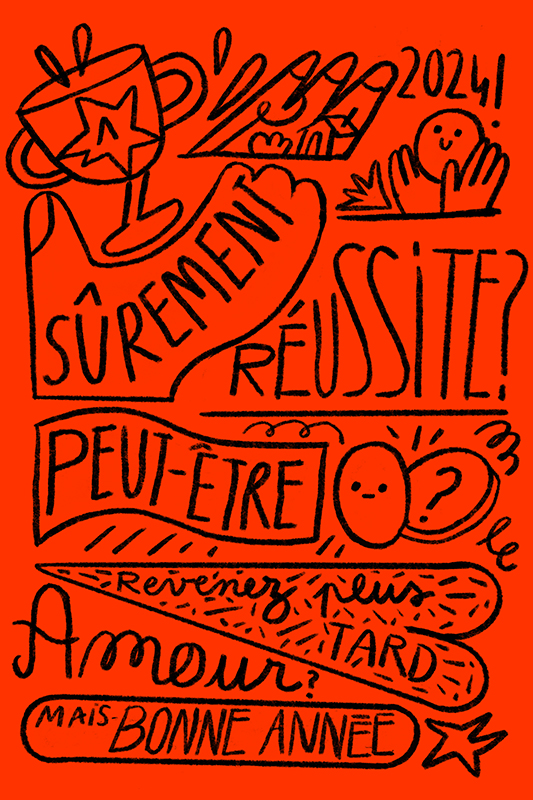
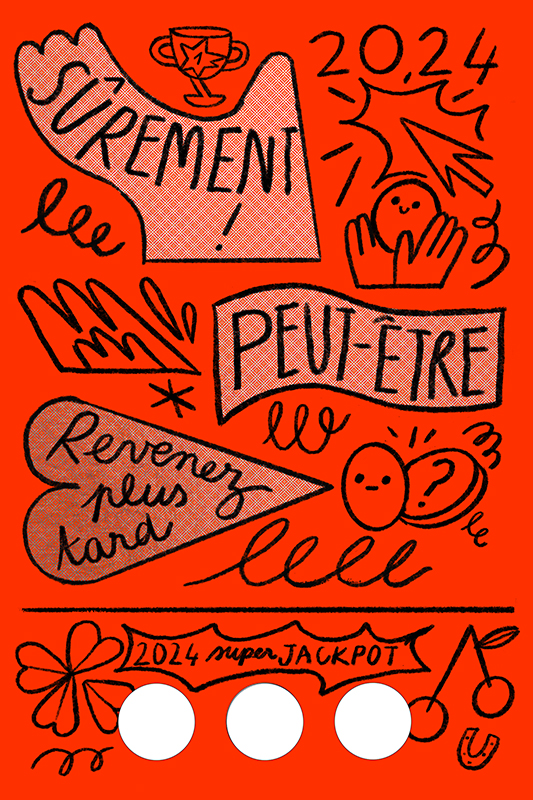
IMAGES-onpage

diff --git a/index.html b/index.html
@@ -130,11 +130,15 @@
     </style>
   </head>
   <body>
+    <!-- <button class="custom-btn btn-1">evabarenton.com</button>-->
 
-    <p> SCRATCH AND SEE </p> <!--<br/>that can be erased
-    using touch ou mouse moves.<br/><b>try by yourself below...</b></p> -->
-    <!-- <p><code id="percent">$("#myImage").eraser();</code></p> -->
-<!--     <div class="frame">
+    <p>QUE VOUS RÉSERVE 2024?<br>
+Grattez avec votre curseur pour le découvrir</p>
+
+    <!--<br/>that can be erased
+    using touch ou mouse moves.<br/><b>try by yourself below...</b></p> 
+ <p><code id="percent">$("#myImage").eraser();</code></p> 
+  <div class="frame">
       <button class="custom-btn btn-2">evabarenton.com</button>
       </div> -->
 
@@ -190,6 +194,10 @@
   </body>
   <div class="frame">
 <br>
-    <button class="custom-btn btn-2">evabarenton.com</button>
+<button onclick="window.location.href = 'https://evabarenton.com/';" class="custom-btn btn-1">evabarenton.com</button>
+
+  
+    <button onclick="window.location.href = 'https://evabarenton.com/2024';" class="custom-btn btn-1">Réclamez votre gain</button>
+  
     </div>
 </html>
